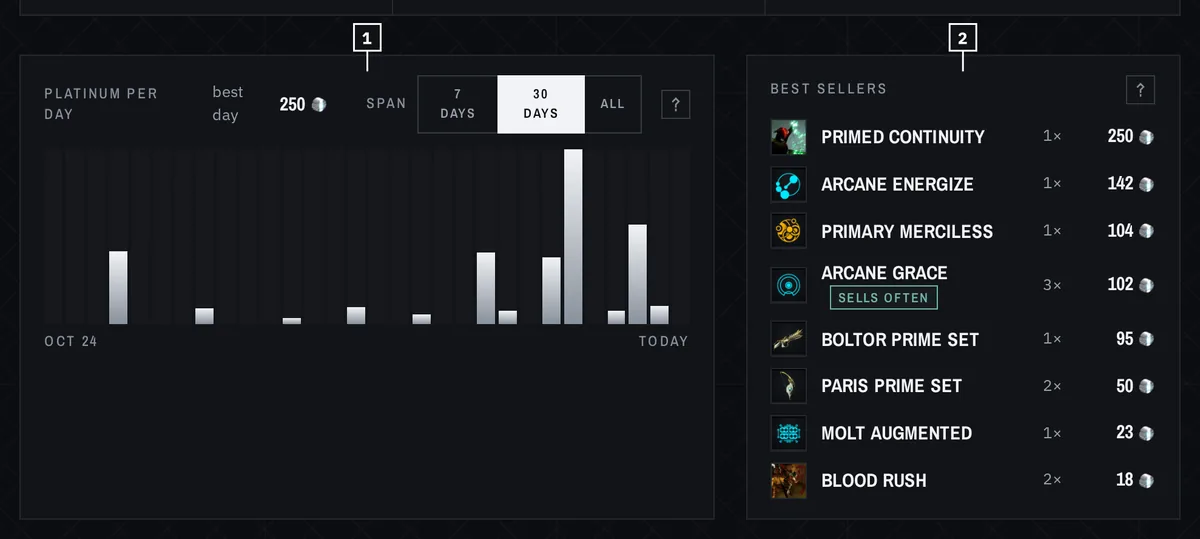
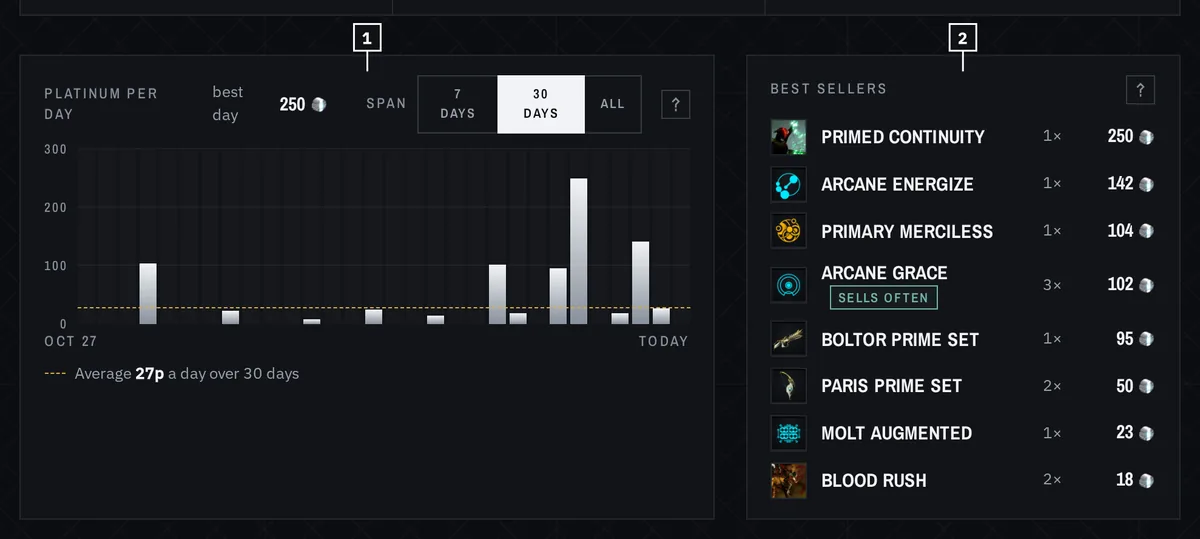
Sales chart: the key line wraps whole, the fuzzed logs reach salesChart
The average's words and "One bar" each stay on one line and wrap as a
whole at the narrowest width; the line reads "Average 27p a day over 30
days", with what is counted in its tooltip. The scale's sizing number
stays in the flow, unseen, instead of in a box of no height. The
settings fuzz now draws all three spans from its made-up logs. The
help's Sales chart picture is taken again.

diff --git a/src/lib/tabs/Sales.svelte b/src/lib/tabs/Sales.svelte
@@ -290,7 +290,7 @@
           {/key}
         </div>
         <div class="axis register"><span>{dayText(chart.bars[0].at)}</span><span>today</span></div>
-        <p class="key small dim">{#if perBar != null}<i class="dash" aria-hidden="true"></i><span>Average <b>{avgText(perBar)}p</b> a {unit}{#if chart.per > 1}{" "}({avgText(chart.daily ?? 0)}p a day){/if}, over the {chart.days} days shown</span>{:else}<span>Nothing sold in these {chart.days} days.</span>{/if}{#if chart.per > 1}<span class="grow"></span><span>One bar: {chart.per} days</span>{/if}</p>
+        <p class="key small dim">{#if perBar != null}<i class="dash" aria-hidden="true"></i><span title="The dashed line: the platinum made over the {chart.days} days shown, shared out over every one of them, days with no sale counted">Average <b>{avgText(perBar)}p</b> a {unit}{#if chart.per > 1}{" "}({avgText(chart.daily ?? 0)}p a day){/if} over {chart.days} days</span>{:else}<span>Nothing sold in these {chart.days} days.</span>{/if}{#if chart.per > 1}<span class="grow"></span><span>One bar: {chart.per} days</span>{/if}</p>
       </section>
       <section class="top">
         <div class="head"><span class="register">Best sellers</span><span class="grow"></span><HelpMark part="sales.best" /></div>
@@ -368,7 +368,7 @@
   .plot { display: grid; grid-template-columns: auto minmax(0, 1fr); gap: .5rem; }
   .yaxis { position: relative; color: var(--platinum-deep); font-size: 11px; text-align: right; }
   /* The top value, unseen and in the flow, makes the column as wide as the widest number. */
-  .widest { display: block; height: 0; overflow: hidden; visibility: hidden; }
+  .widest { display: block; line-height: 1; visibility: hidden; }
   .tick { position: absolute; right: 0; line-height: 1; transform: translateY(50%); white-space: nowrap; }
   .bars { position: relative; display: flex; align-items: flex-end; gap: 3px; height: 9rem; }
   /* Past a month of bars, a 1 px gap leaves the bar itself the room. */
@@ -377,7 +377,8 @@
   .rule { border-top: 1px solid rgb(255 255 255 / 6%); }
   /* The average: a thin dashed line over the bars, in gold so it reads against them. */
   .avg { z-index: 1; border-top: 1px dashed var(--gold); }
-  .key { display: flex; align-items: center; gap: .45rem; margin: .5rem 0 0; }
+  .key { display: flex; flex-wrap: wrap; align-items: center; gap: .2rem .45rem; margin: .5rem 0 0; }
+  .key > span { white-space: nowrap; }
   .key b { color: var(--platinum); font-weight: 600; font-variant-numeric: tabular-nums; }
   .dash { display: inline-block; flex: none; width: 1.1rem; border-top: 1px dashed var(--gold); }
   .col { flex: 1; height: 100%; display: flex; align-items: flex-end; background: rgb(255 255 255 / 2%); }

diff --git a/tests/settingsFuzz.test.ts b/tests/settingsFuzz.test.ts
@@ -18,7 +18,7 @@ import { noxItems } from "../src/lib/core/builds/noxsframe";
 import { parseOverframeFile } from "../src/lib/core/builds/overframeList";
 import { buildModel } from "../src/lib/core/model";
 import { salesCsv, tradesCsv } from "../src/lib/core/exportCsv";
-import { salesByDay } from "../src/lib/core/salesDays";
+import { salesByDay, salesChart } from "../src/lib/core/salesDays";
 import { foundryBuilds } from "../src/lib/core/foundry";
 import { dropTotals, laterClaims, recordRead } from "../src/lib/core/drops";
 import { dealNews } from "../src/lib/core/worldOnce";
@@ -186,7 +186,7 @@ test("settings files: loading anything never throws, never turns on automatic re
     const fine = (n: unknown) => typeof n === "number" && Number.isFinite(n);
     assert.ok(m.sales.every((x) => x && fine(x.at) && typeof x.item === "string" && x.item && Number.isInteger(x.quantity) && x.quantity >= 1 && fine(x.platinum) && x.platinum >= 0 && (x.rank === null || Number.isInteger(x.rank)) && (x.median === undefined || fine(x.median))), `sales: ${ctx}`);
     assert.ok(m.trades.every((t) => t && fine(t.at) && typeof t.key === "string" && typeof t.partner === "string" && fine(t.platIn) && fine(t.platOut) && [t.offered, t.received].every((xs) => Array.isArray(xs) && xs.every((x) => x && typeof x.name === "string" && Number.isInteger(x.count) && x.count >= 1))), `trades: ${ctx}`);
-    assert.doesNotThrow(() => (salesCsv(m.sales), tradesCsv(m.trades), salesByDay(m.sales, Date.now(), 30)), `the logs: ${ctx}`);
+    assert.doesNotThrow(() => (salesCsv(m.sales), tradesCsv(m.trades), salesByDay(m.sales, Date.now(), 30), salesChart(m.sales, Date.now(), "7"), salesChart(m.sales, Date.now(), "30"), salesChart(m.sales, Date.now(), "all")), `the logs: ${ctx}`);
     // The saved game state's lists: whole entries only (core/savedGame.ts).
     const g = s.game;
     const objs = (xs: unknown) => Array.isArray(xs) && xs.every((x) => x && typeof x === "object" && !Array.isArray(x));
